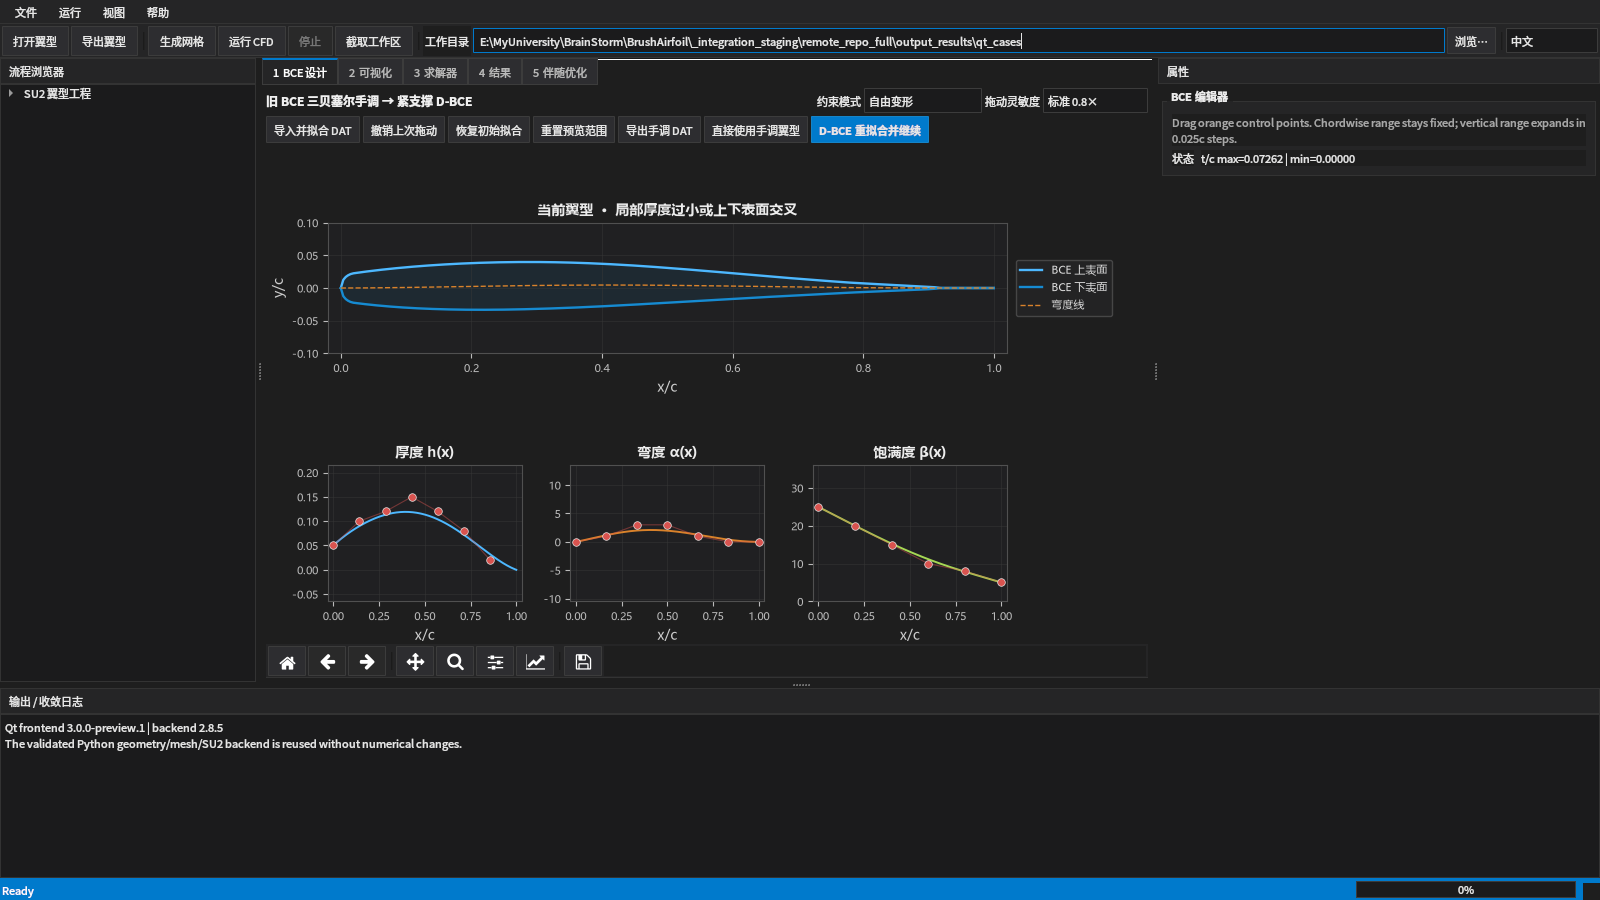
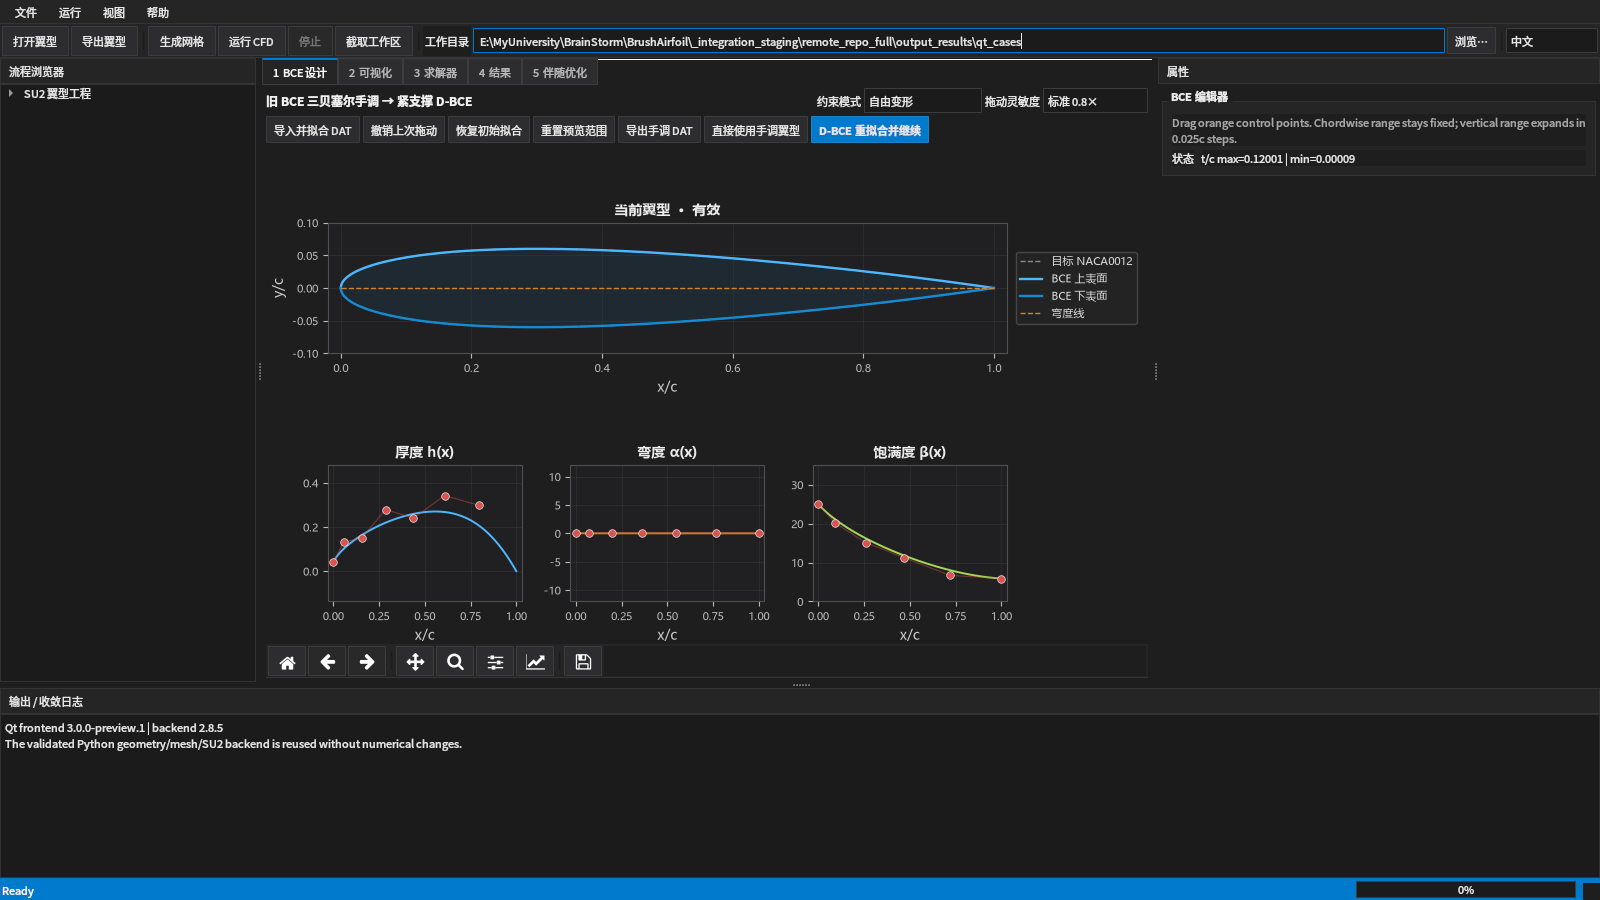
Start manual BCE editing from exact NACA0012

diff --git a/qt_app/airfoil_editor.py b/qt_app/airfoil_editor.py
@@ -1,5 +1,6 @@
 from __future__ import annotations
 
+from functools import lru_cache
 from pathlib import Path
 
 import numpy as np
@@ -18,10 +19,9 @@ from PySide6.QtWidgets import (
     QWidget,
 )
 
-from core_modules.airfoil_processor import process_airfoil
+from core_modules.airfoil_processor import generate_naca0012_surfaces, process_airfoil
 from parametric_adjoint.deformation import write_selig
 from parametric_adjoint.legacy_deformation import (
-    INITIAL_PARAMETERS,
     LOWER_BOUNDS,
     UPPER_BOUNDS,
     compact_dbce_refit,
@@ -41,6 +41,19 @@ rcParams["font.sans-serif"] = [
 rcParams["axes.unicode_minus"] = False
 
 
+@lru_cache(maxsize=1)
+def _default_naca0012_fit() -> tuple[np.ndarray, np.ndarray, np.ndarray, np.ndarray, float]:
+    """Return the exact analytic NACA0012 target and its legacy-BCE control fit."""
+    x = 0.5 * (1.0 - np.cos(np.linspace(0.0, np.pi, 181)))
+    upper_source, lower_source = generate_naca0012_surfaces(401)
+    upper_source = upper_source[::-1]
+    lower_source = lower_source[::-1]
+    upper = np.interp(x, upper_source[:, 0], upper_source[:, 1])
+    lower = np.interp(x, lower_source[:, 0], lower_source[:, 1])
+    parameters, rmse = fit_legacy_bce(x, upper, lower)
+    return x, upper, lower, parameters, rmse
+
+
 class BCECanvas(FigureCanvasQTAgg):
     status = Signal(str)
     geometryChanged = Signal(object, object, object)
@@ -52,10 +65,17 @@ class BCECanvas(FigureCanvasQTAgg):
         grid = self.figure.add_gridspec(2, 3, height_ratios=(1.65, 1.0), hspace=0.36, wspace=0.25)
         self.geometry_axis = self.figure.add_subplot(grid[0, :])
         self.control_axes = [self.figure.add_subplot(grid[1, index]) for index in range(3)]
-        self.parameters = INITIAL_PARAMETERS.copy()
-        self.baseline_parameters = self.parameters.copy()
-        self.target: tuple[np.ndarray, np.ndarray, np.ndarray] | None = None
-        self.x = 0.5 * (1.0 - np.cos(np.linspace(0.0, np.pi, 181)))
+        default_x, default_upper, default_lower, default_parameters, default_rmse = (
+            _default_naca0012_fit()
+        )
+        self.x = default_x.copy()
+        self.parameters = default_parameters.copy()
+        self.baseline_parameters = default_parameters.copy()
+        self.target: tuple[np.ndarray, np.ndarray, np.ndarray] | None = (
+            self.x.copy(), default_upper.copy(), default_lower.copy()
+        )
+        self.target_name = "NACA0012"
+        self.initial_fit_rmse = float(default_rmse)
         self.history: list[np.ndarray] = []
         self.sensitivity = 0.8
         self.constraint_mode = "free"
@@ -79,6 +99,17 @@ class BCECanvas(FigureCanvasQTAgg):
 
     def current_geometry(self) -> tuple[np.ndarray, np.ndarray, np.ndarray]:
         upper, lower, camber = legacy_airfoil(self.parameters, self.x)
+        if self.target is not None:
+            baseline_upper, baseline_lower, _ = legacy_airfoil(
+                self.baseline_parameters, self.x
+            )
+            # The imported/analytic airfoil is the exact reference geometry.
+            # Legacy BCE contributes only its edit relative to the fitted
+            # baseline, so opening or resetting never changes NACA0012 (or a
+            # user DAT) merely because the old representation is approximate.
+            upper = self.target[1] + upper - baseline_upper
+            lower = self.target[2] + lower - baseline_lower
+            camber = 0.5 * (upper + lower)
         half_thickness = 0.5 * (upper - lower)
         if self.constraint_mode == "lock_thickness":
             half_thickness = self.thickness_reference.copy()
@@ -119,7 +150,9 @@ class BCECanvas(FigureCanvasQTAgg):
         self.parameters = fitted
         self.baseline_parameters = fitted.copy()
         self.target = (normalized_x.copy(), upper_y.copy(), lower_y.copy())
-        base_upper, base_lower, base_camber = legacy_airfoil(self.parameters, self.x)
+        self.target_name = Path(path).stem
+        _, base_upper, base_lower = self.current_geometry()
+        base_camber = 0.5 * (base_upper + base_lower)
         self.thickness_reference = 0.5 * (base_upper - base_lower)
         self.camber_reference = base_camber.copy()
         self.history.clear()
@@ -131,7 +164,8 @@ class BCECanvas(FigureCanvasQTAgg):
     def reset(self) -> None:
         self.history.append(self.parameters.copy())
         self.parameters = self.baseline_parameters.copy()
-        base_upper, base_lower, base_camber = legacy_airfoil(self.parameters, self.x)
+        _, base_upper, base_lower = self.current_geometry()
+        base_camber = 0.5 * (base_upper + base_lower)
         self.thickness_reference = 0.5 * (base_upper - base_lower)
         self.camber_reference = base_camber.copy()
         self.selected = None
@@ -150,7 +184,12 @@ class BCECanvas(FigureCanvasQTAgg):
         self.status.emit(f"Exported: {path}")
 
     def dbce_handoff(self, path: Path) -> tuple[float, int]:
-        baseline_upper, baseline_lower, _ = legacy_airfoil(self.baseline_parameters, self.x)
+        if self.target is None:
+            baseline_upper, baseline_lower, _ = legacy_airfoil(
+                self.baseline_parameters, self.x
+            )
+        else:
+            baseline_upper, baseline_lower = self.target[1], self.target[2]
         _, target_upper, target_lower = self.current_geometry()
         upper, lower, rmse, variables = compact_dbce_refit(
             self.x, baseline_upper, baseline_lower, target_upper, target_lower
@@ -212,11 +251,17 @@ class BCECanvas(FigureCanvasQTAgg):
     def _redraw(self) -> None:
         for axis in [self.geometry_axis, *self.control_axes]:
             axis.clear()
-        upper, lower, camber = legacy_airfoil(self.parameters, self.x)
+        _, upper, lower = self.current_geometry()
+        camber = 0.5 * (upper + lower)
         valid, reason = validate_airfoil(upper, lower)
         if self.target is not None:
             tx, tu, tl = self.target
-            self.geometry_axis.plot(tx, tu, "--", color="#8B8B8B", lw=1.0, label="导入目标" if self.language == "zh" else "Imported target")
+            target_label = (
+                f"目标 {self.target_name}"
+                if self.language == "zh"
+                else f"Target {self.target_name}"
+            )
+            self.geometry_axis.plot(tx, tu, "--", color="#8B8B8B", lw=1.0, label=target_label)
             self.geometry_axis.plot(tx, tl, "--", color="#8B8B8B", lw=1.0)
         self.geometry_axis.plot(self.x, upper, color="#4DB8FF", lw=1.7, label="BCE 上表面" if self.language == "zh" else "BCE upper")
         self.geometry_axis.plot(self.x, lower, color="#168BD2", lw=1.7, label="BCE 下表面" if self.language == "zh" else "BCE lower")

diff --git a/tests/test_qt_frontend.py b/tests/test_qt_frontend.py
@@ -78,6 +78,14 @@ def test_latest_manual_bce_constraints_and_actions_are_available(application, tm
     assert set(editor.action_buttons) == {
         "import", "undo", "reset", "view", "export", "direct", "handoff"
     }
+    x_initial, upper_initial, lower_initial = editor.canvas.current_geometry()
+    assert editor.canvas.target_name == "NACA0012"
+    assert np.allclose(upper_initial, editor.canvas.target[1], atol=1.0e-12)
+    assert np.allclose(lower_initial, editor.canvas.target[2], atol=1.0e-12)
+    assert np.max(np.abs(0.5 * (upper_initial + lower_initial))) < 1.0e-12
+    assert np.max(upper_initial - lower_initial) == pytest.approx(0.12, abs=3.0e-4)
+    assert x_initial[0] == pytest.approx(0.0)
+    assert x_initial[-1] == pytest.approx(1.0)
 
     lock_thickness = editor.constraint_mode.findData("lock_thickness")
     editor.constraint_mode.setCurrentIndex(lock_thickness)

diff --git a/README.md b/README.md
@@ -46,9 +46,9 @@ Select a working directory first. Start from a built-in NACA section, import a S
 
 ### 2. 旧 BCE 手调 / Legacy BCE manual design
 
-旧 BCE 页面完整保留三条函数 `h(x)`、`α(x)`、`β(x)` 的红色 Bézier 控制点，并提供“自由变形、锁定厚度、锁定弯度”三种约束模式。锁定厚度时保持半厚度场不变，锁定弯度时保持中弧线不变；精细/标准/快速拖动灵敏度、撤销、恢复、固定预览范围和无效几何拦截均可用。手调结果可以直接送入网格，也可以经 D-BCE 紧支撑重拟合后继续。
+旧 BCE 页面默认从解析尖后缘 NACA0012 开始，并完整保留三条函数 `h(x)`、`α(x)`、`β(x)` 的红色 Bézier 控制点。BCE 仅施加相对于拟合基线的增量，因此启动和复位时的几何严格保持 NACA0012，而不会被拟合误差替换。界面提供“自由变形、锁定厚度、锁定弯度”三种约束模式；锁定厚度时保持半厚度场不变，锁定弯度时保持中弧线不变。精细/标准/快速拖动灵敏度、撤销、恢复、固定预览范围和无效几何拦截均可用。手调结果可以直接送入网格，也可以经 D-BCE 紧支撑重拟合后继续。
 
-The legacy BCE page retains the red Bézier control points for `h(x)`, `α(x)` and `β(x)`, together with Free, Lock thickness and Lock camber constraint modes. Lock thickness preserves the half-thickness field; Lock camber preserves the mean line. Fine/standard/fast drag gain, undo, restore, stable view limits and invalid-geometry blocking are available. Use the edited shape directly for meshing or refit it with compact D-BCE before continuing.
+The legacy BCE page starts from an analytic sharp-trailing-edge NACA0012 and retains the red Bézier control points for `h(x)`, `α(x)` and `β(x)`. BCE contributes increments relative to its fitted baseline, so startup and reset preserve the exact NACA0012 instead of replacing it with the fit error. Free, Lock thickness and Lock camber modes are available: the latter two preserve the half-thickness field or mean line. Fine/standard/fast drag gain, undo, restore, stable view limits and invalid-geometry blocking are included. Use the edited shape directly for meshing or refit it with compact D-BCE before continuing.
 
 | 中文 / Chinese | English |
 |---|---|

diff --git a/RELEASE_NOTES.md b/RELEASE_NOTES.md
@@ -4,6 +4,7 @@
 
 ## 2026-11-23 Qt-only production update
 
+- Qt 手调 BCE 默认改为解析尖后缘 NACA0012，并以“精确目标 + BCE 增量”方式变形，消除启动/复位时的拟合形状偏差；约束后的实际几何也统一用于显示、导出和下游流程。The Qt manual BCE editor now starts from an analytic sharp-trailing-edge NACA0012 and applies BCE increments to that exact target, eliminating fitted-shape drift at startup/reset; the constrained geometry is consistently used for display, export and downstream workflows.
 - Qt 手调 BCE 补齐最新约束交互：自由变形、锁定厚度、锁定弯度、红色控制点、固定预览范围、无效几何拦截，以及直接使用/D-BCE 重拟合双出口。The Qt BCE editor restores the latest constraint workflow: free, lock-thickness and lock-camber modes, red control points, stable view limits, invalid-geometry blocking and separate direct/D-BCE exits.
 - 移除旧 Tk 启动/打包入口和 V1/V2 图标；生产入口统一为 `SU2_Airfoil_Studio_Qt.exe`。Removed obsolete Tk launch/package entry points and V1/V2 branding assets; the production entry is now the Qt executable.
 - D-BCE 优化笔刷新增最小半宽与 CFD 壁面最少支撑点门槛。Added minimum half-width and CFD support-node gates for D-BCE optimization brushes.

diff --git a/docs/USER_GUIDE.md b/docs/USER_GUIDE.md
@@ -39,6 +39,8 @@ The application provides two starting points:
 
 主翼型视图上方显示当前轮廓、导入目标和弯度线；图例放在侧边/非遮挡位置。下方三张图分别是：The main view shows the current airfoil, imported target and camber line. The three lower plots are:
 
+默认目标是解析尖后缘 NACA0012。旧 BCE 拟合只定义控制点和后续变形增量，因此未拖动或复位后的当前几何与 NACA0012 精确重合；导入用户 DAT 时也采用相同的“精确目标 + BCE 增量”规则。The default target is an analytic sharp-trailing-edge NACA0012. The legacy BCE fit defines only the controls and subsequent edit increments, so the untouched or reset geometry coincides exactly with NACA0012. Imported DAT files use the same exact-target-plus-BCE-increment rule.
+
 - `h(x)`：高度/厚度尺度；控制总体厚度和局部高度。Height/thickness scale.
 - `α(x)`：弯度方向；对弯度最敏感。Camber direction; the most sensitive camber control.
 - `β(x)`：局部饱满度和曲率分布。Local fullness and curvature distribution.
